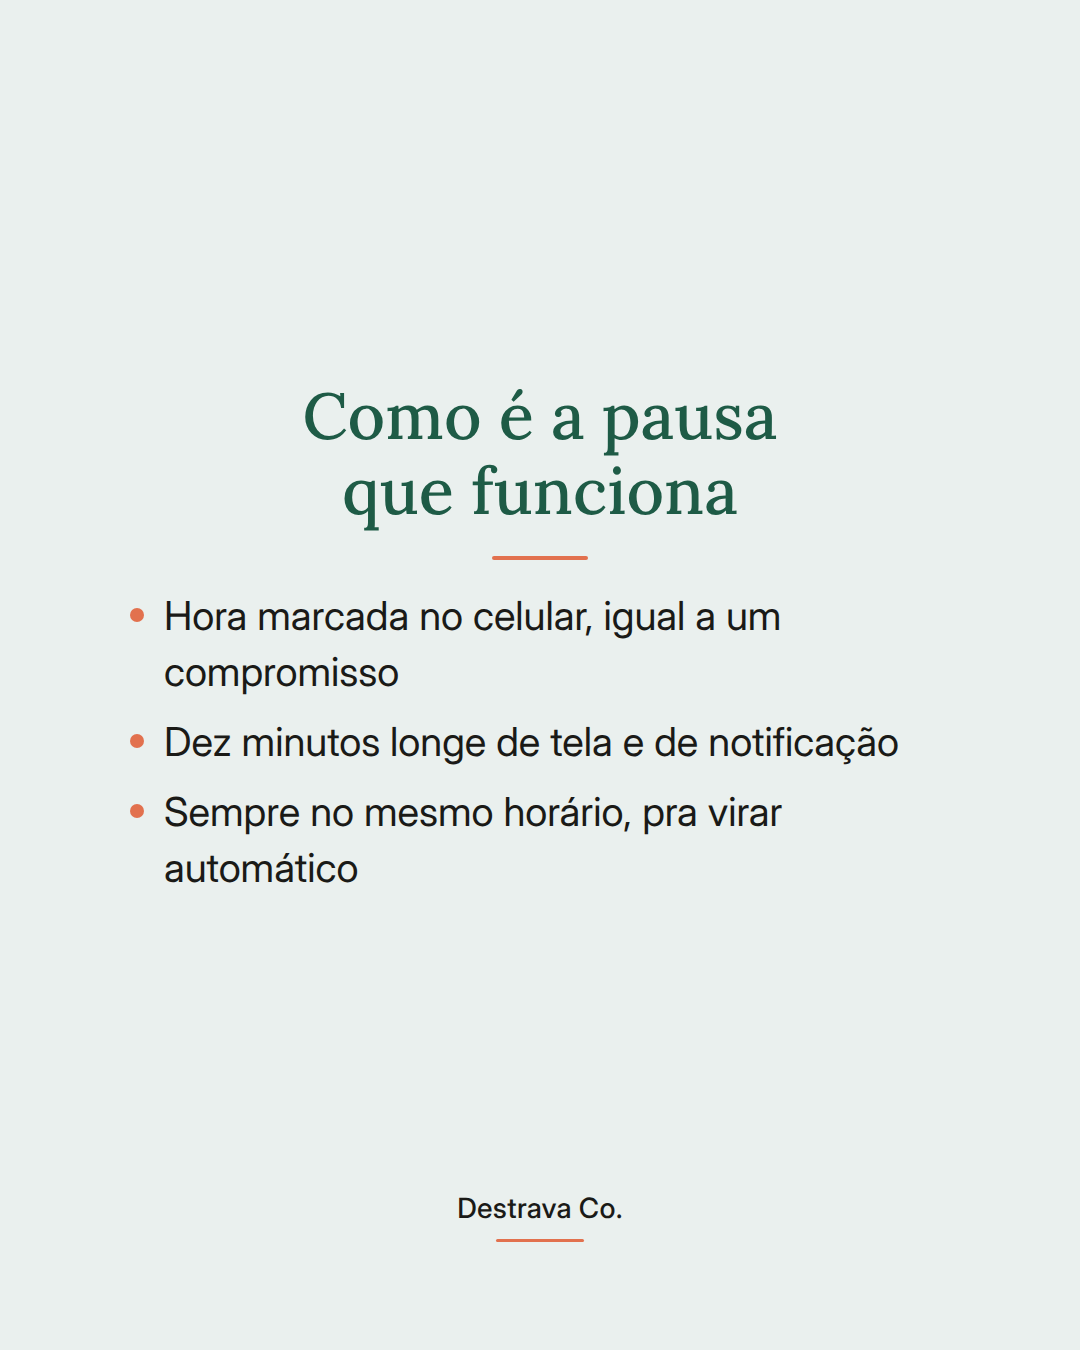
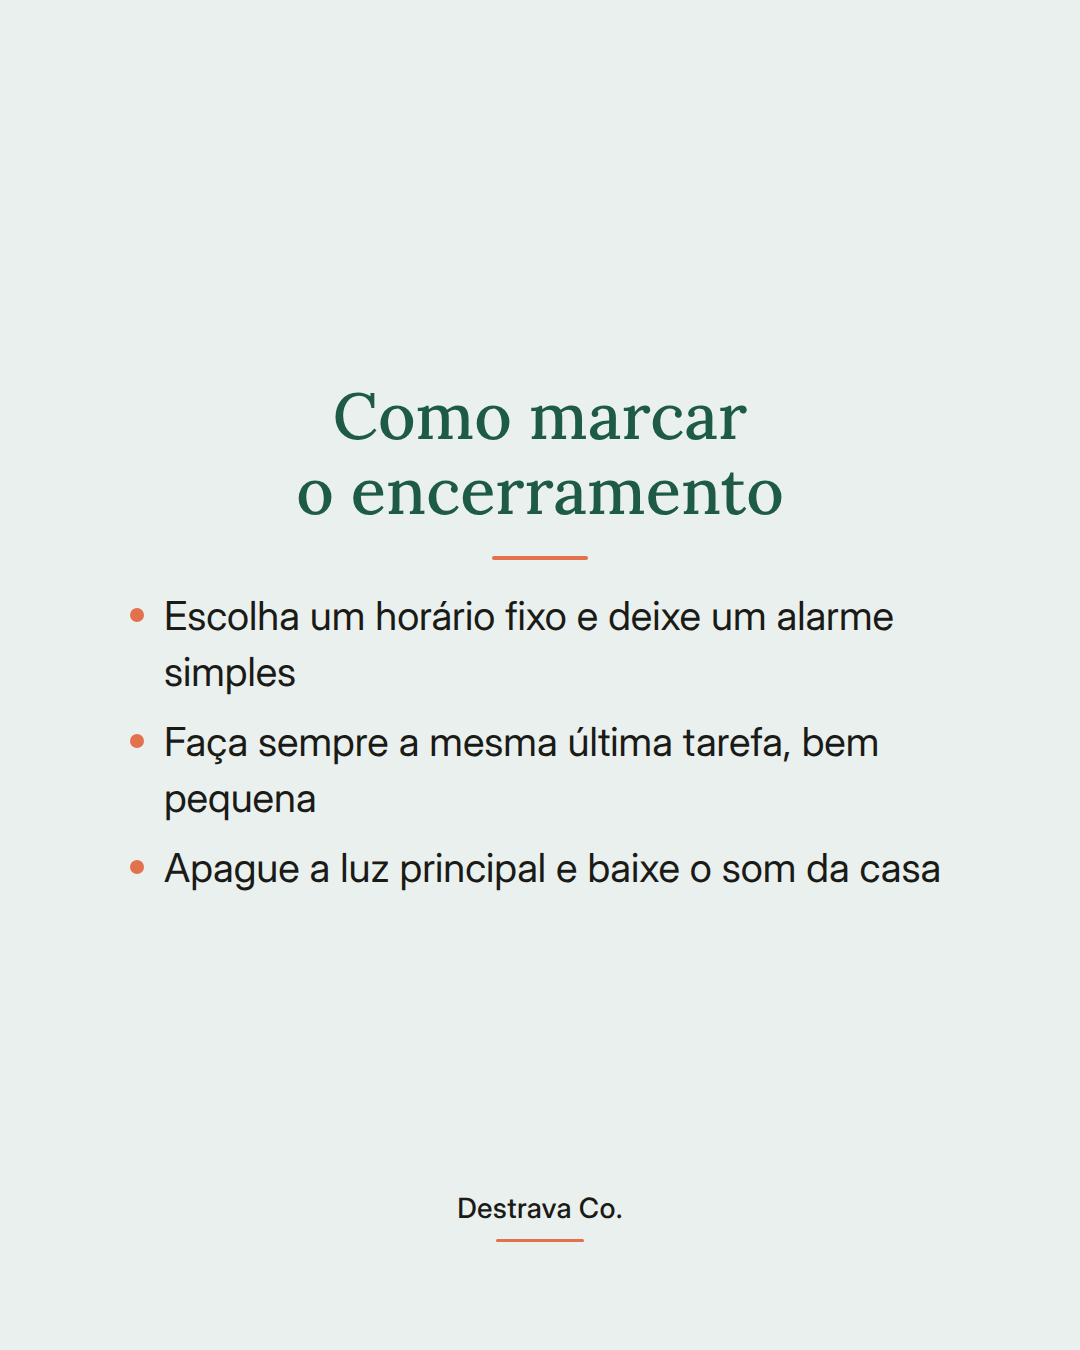
content: peças Instagram 2026_10_04

Changed region(s): [[0.1222, 0.4356, 0.8861, 0.6533], [0.275, 0.28, 0.7333, 0.4044]]

diff --git a/public/content/2026_10_04/index.html b/public/content/2026_10_04/index.html
@@ -19,23 +19,23 @@
 </head>
 <body>
 <h1>Corpo · capa B (wash3)</h1>
-<div class="meta">2026-10-04 · gerado em 2026-10-04T10:02:51 · sticker sugerido nos Stories: emoji slider</div>
+<div class="meta">2026-10-04 · gerado em 2026-10-04T13:22:51 · sticker sugerido nos Stories: emoji slider</div>
 <h2>Carrossel</h2>
-<div class="strip"><img src="2026_10_04_-_Carrossel_Corpo_01.png" alt="Lâmina de capa com fundo wash3 da linha Corpo e título em campo sobre a tarde que desaba sem pausa." title="2026_10_04_-_Carrossel_Corpo_01.png"><img src="2026_10_04_-_Carrossel_Corpo_02.png" alt="Lâmina de miolo com fundo wash1 bem claro e título em campo profundo explicando por que a tarde pesa sem pausa." title="2026_10_04_-_Carrossel_Corpo_02.png"><img src="2026_10_04_-_Carrossel_Corpo_03.png" alt="Lâmina de miolo com fundo wash1 bem claro, título em campo profundo e lista de três características da pausa." title="2026_10_04_-_Carrossel_Corpo_03.png"><img src="2026_10_04_-_Carrossel_Corpo_04.png" alt="Lâmina de miolo com fundo wash1 bem claro e título em campo profundo sobre a versão curta da pausa nos dias cheios." title="2026_10_04_-_Carrossel_Corpo_04.png"><img src="2026_10_04_-_Carrossel_Corpo_05.png" alt="Lâmina de CTA com fundo campo profundo, texto creme e botão no acento convidando a conhecer o Destrava 21." title="2026_10_04_-_Carrossel_Corpo_05.png"></div>
+<div class="strip"><img src="2026_10_04_-_Carrossel_Corpo_01.png" alt="Lâmina com fundo wash3 da linha Corpo e título em campo dizendo que seu dia precisa de hora pra terminar." title="2026_10_04_-_Carrossel_Corpo_01.png"><img src="2026_10_04_-_Carrossel_Corpo_02.png" alt="Lâmina de fundo wash1 bem claro com título no campo profundo explicando que o dia sem fim cansa mais." title="2026_10_04_-_Carrossel_Corpo_02.png"><img src="2026_10_04_-_Carrossel_Corpo_03.png" alt="Lâmina de fundo wash1 bem claro com lista de três passos pra marcar o encerramento do dia." title="2026_10_04_-_Carrossel_Corpo_03.png"><img src="2026_10_04_-_Carrossel_Corpo_04.png" alt="Lâmina de fundo wash1 bem claro com título no campo profundo sobre a versão curta do encerramento em dias ruins." title="2026_10_04_-_Carrossel_Corpo_04.png"><img src="2026_10_04_-_Carrossel_Corpo_05.png" alt="Lâmina de fundo campo profundo com texto creme e botão no acento convidando a conhecer o Destrava 21." title="2026_10_04_-_Carrossel_Corpo_05.png"></div>
 <h2>Stories</h2>
-<div class="strip"><img class="story" src="2026_10_04_-_Stories_Corpo_01.png" alt="Lâmina de Stories com fundo wash3 da linha Corpo e título em campo convidando a ver o post no feed." title="2026_10_04_-_Stories_Corpo_01.png"><img class="story" src="2026_10_04_-_Stories_Corpo_02.png" alt="Stories em fundo verde profundo apresentando o programa Destrava 21 Mulheres com o endereço da página em destaque no chip coral." title="2026_10_04_-_Stories_Corpo_02.png"></div>
+<div class="strip"><img class="story" src="2026_10_04_-_Stories_Corpo_01.png" alt="Story com fundo wash3 da linha e título em campo convidando a deslizar pro feed." title="2026_10_04_-_Stories_Corpo_01.png"><img class="story" src="2026_10_04_-_Stories_Corpo_02.png" alt="Stories em fundo verde profundo apresentando o programa Destrava 21 Mulheres com o endereço da página em destaque no chip coral." title="2026_10_04_-_Stories_Corpo_02.png"></div>
 <div class="meta">1º · stories post do dia · <a href="2026_10_04_-_Stories_Corpo_01.png" download="2026_10_04_-_Stories_Corpo_01.png">⬇ baixar</a> · sticker de link → post do dia (permalink em publicado.json depois de publicar) · sticker extra sugerido: emoji slider</div><div class="meta">2º · stories oferta · <a href="2026_10_04_-_Stories_Corpo_02.png" download="2026_10_04_-_Stories_Corpo_02.png">⬇ baixar</a> · sticker de link → <a href="https://destravaco.com.br/d21-mulheres-inicial/">https://destravaco.com.br/d21-mulheres-inicial/</a></div>
 <div class="meta">Stories não vão pela API: baixe e poste no app colando o sticker de link.</div>
 <h2>Legenda</h2>
-<pre>Energia na tarde não é sorte: é pausa marcada no meio do dia.
+<pre>Energia no dia seguinte começa com uma hora pra encerrar o dia de hoje.
 
-Na rotina corrida, a gente emenda uma coisa na outra e só percebe o cansaço quando já não sobra nada pra noite. O corpo passa horas em alerta e cobra a conta depois.
+A gente combina horário pra tudo, menos pra parar. Aí o dia vai esticando, a noite vira o único espaço livre que sobrou e você acorda com a sensação de que não descansou de verdade.
 
-A pausa que funciona é a mais simples: hora marcada no celular, dez minutos longe de tela, sempre no mesmo horário. Nos dias impossíveis, dois minutos de pé respirando já seguram o hábito.
+Encerrar é um hábito, igual a qualquer outro. Escolhe um horário, define uma última tarefa pequena e sempre igual, abaixa a luz. Seu corpo começa a entender que aquele sinal significa fim do expediente da casa.
 
-Não precisa ser perfeita todo dia. Precisa existir mais vezes do que falta.
+E nos dias em que der errado, não precisa abandonar: faz a versão de dois minutos e retoma amanhã. Constância é isso, voltar rápido.
 
-Salva pra lembrar amanhã e manda pra uma amiga que vive atropelada. Se quiser construir esse tipo de hábito com apoio, o Destrava 21 te guia passo a passo com o método D.R.A.
+Salva pra lembrar hoje à noite e manda pra uma amiga que vive apagando a luz tarde. Se quiser montar essa rotina com apoio, o Destrava 21 te guia um passo por dia.
 
 <span class="tags">#rotinacorrida #autocuidado #habitossaudaveis #constancia #bemestarfeminino</span></pre>
 </body>
